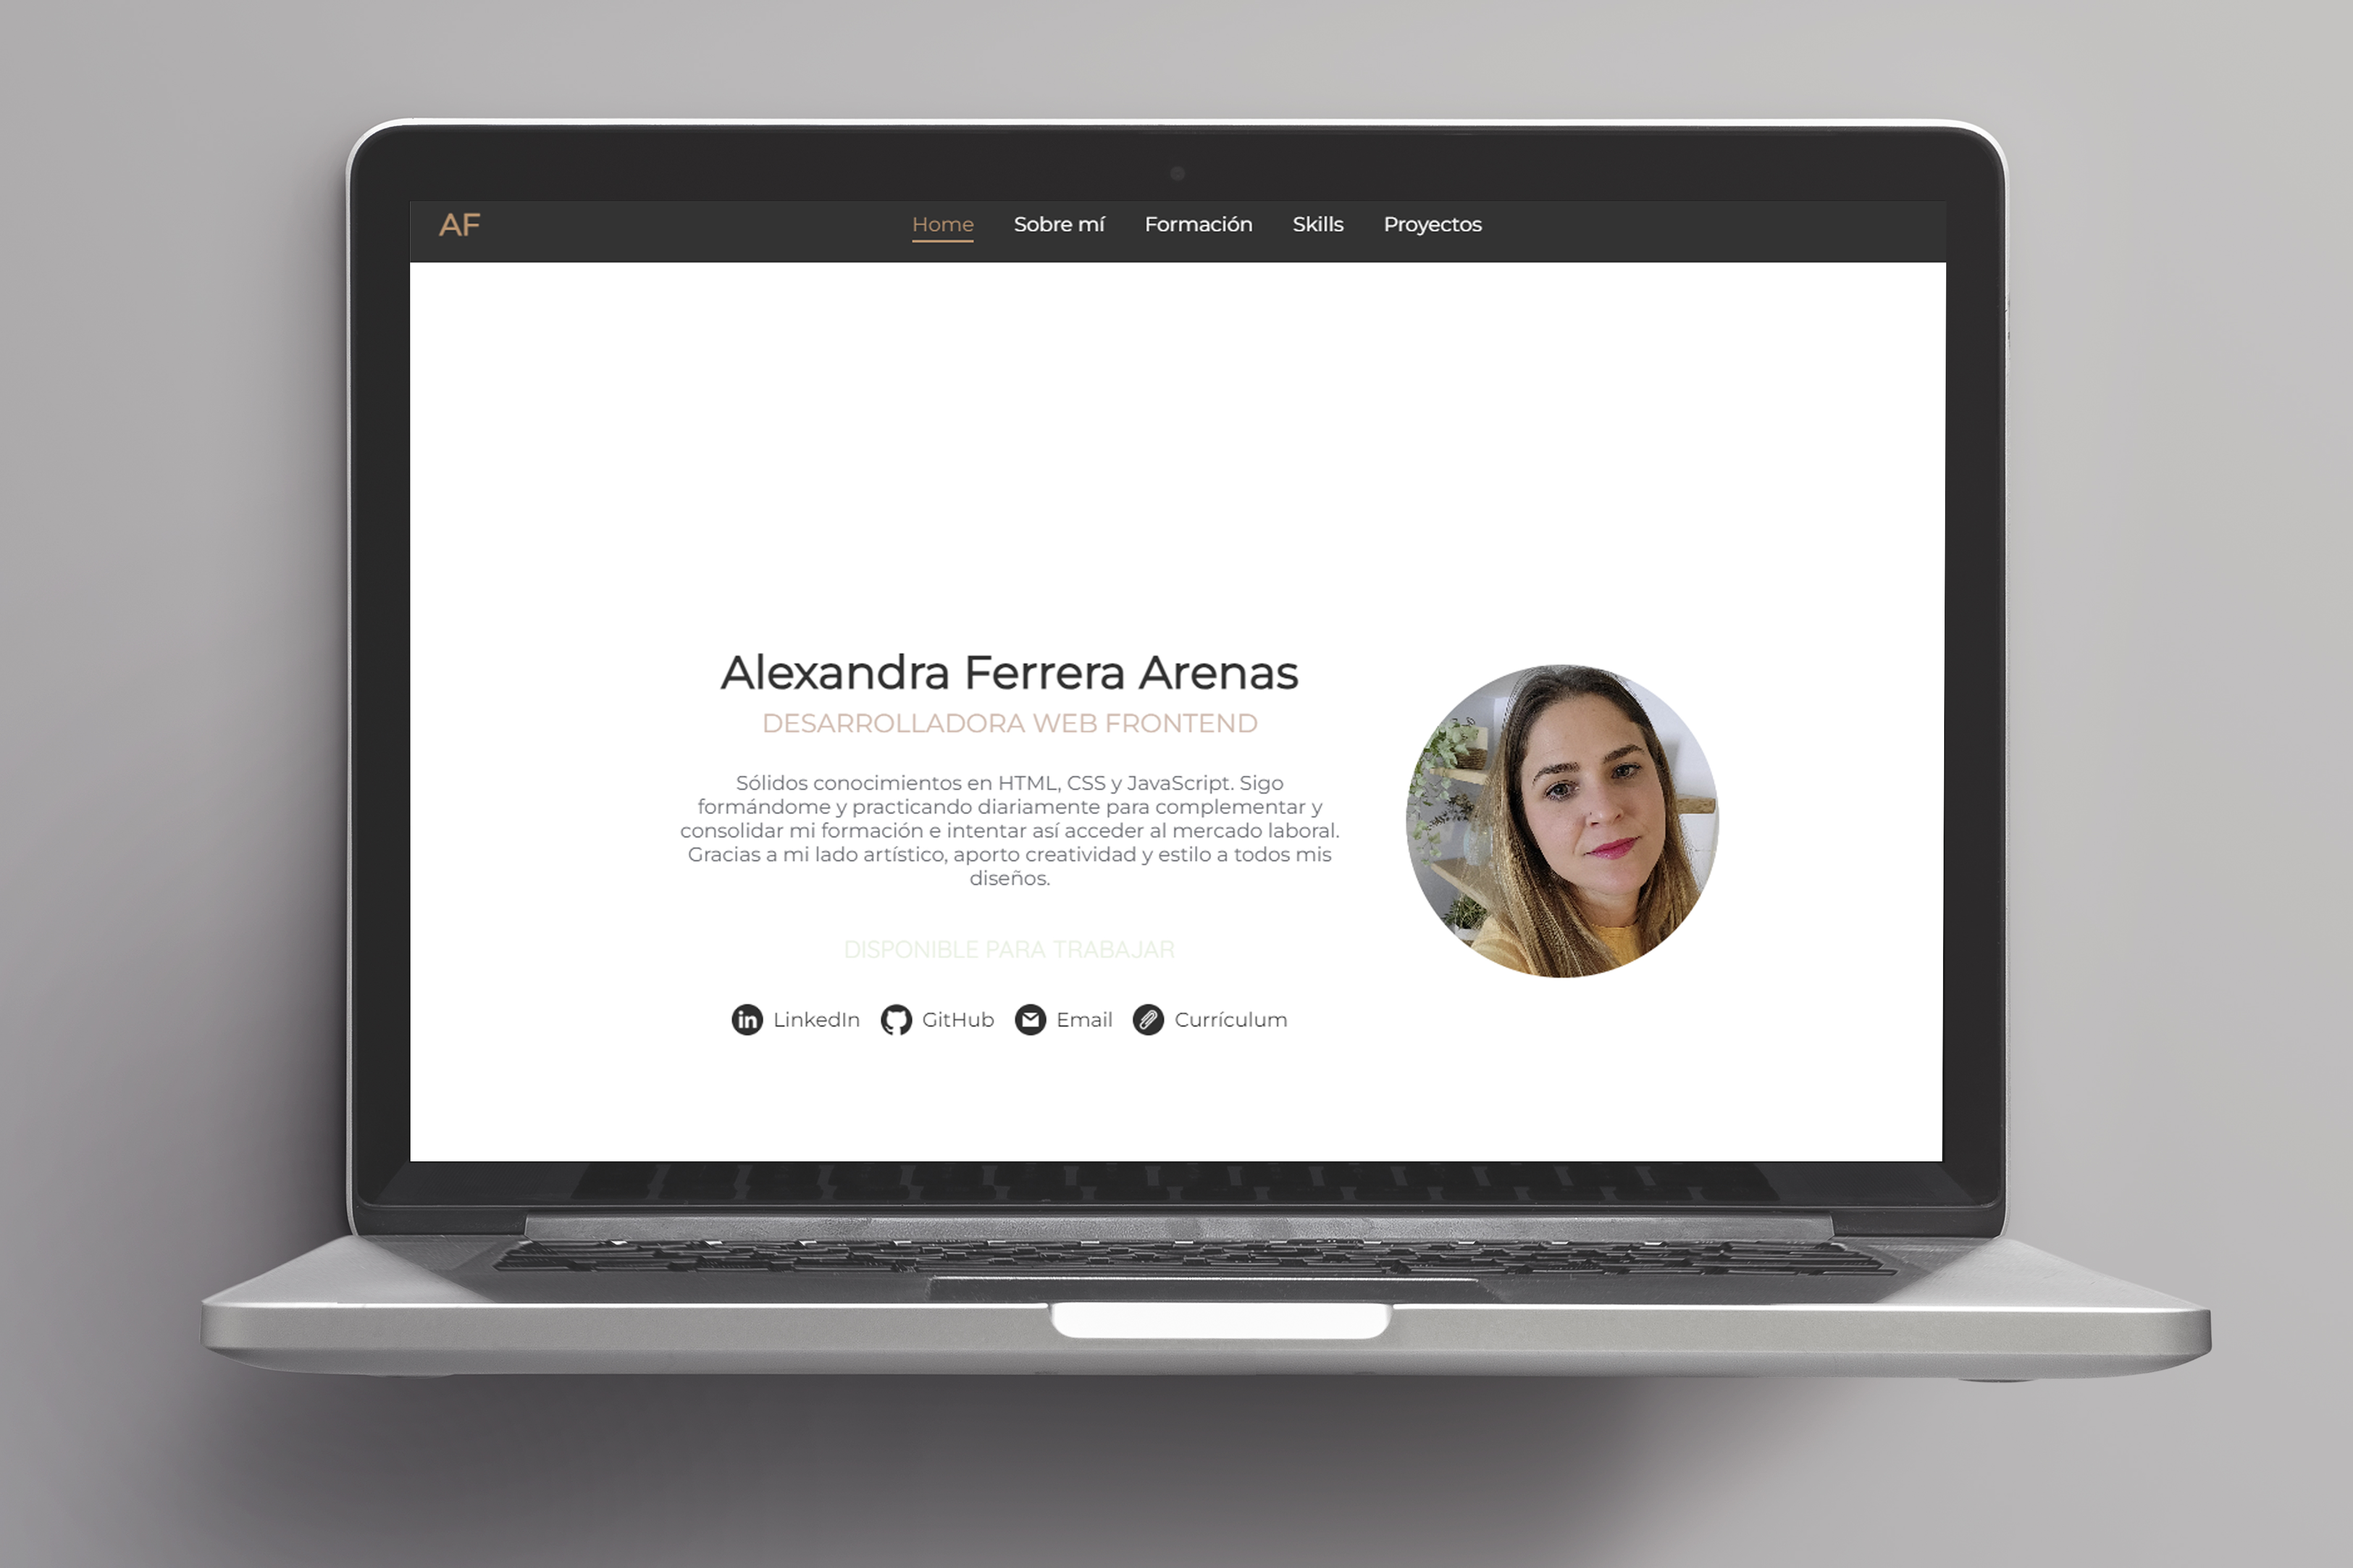
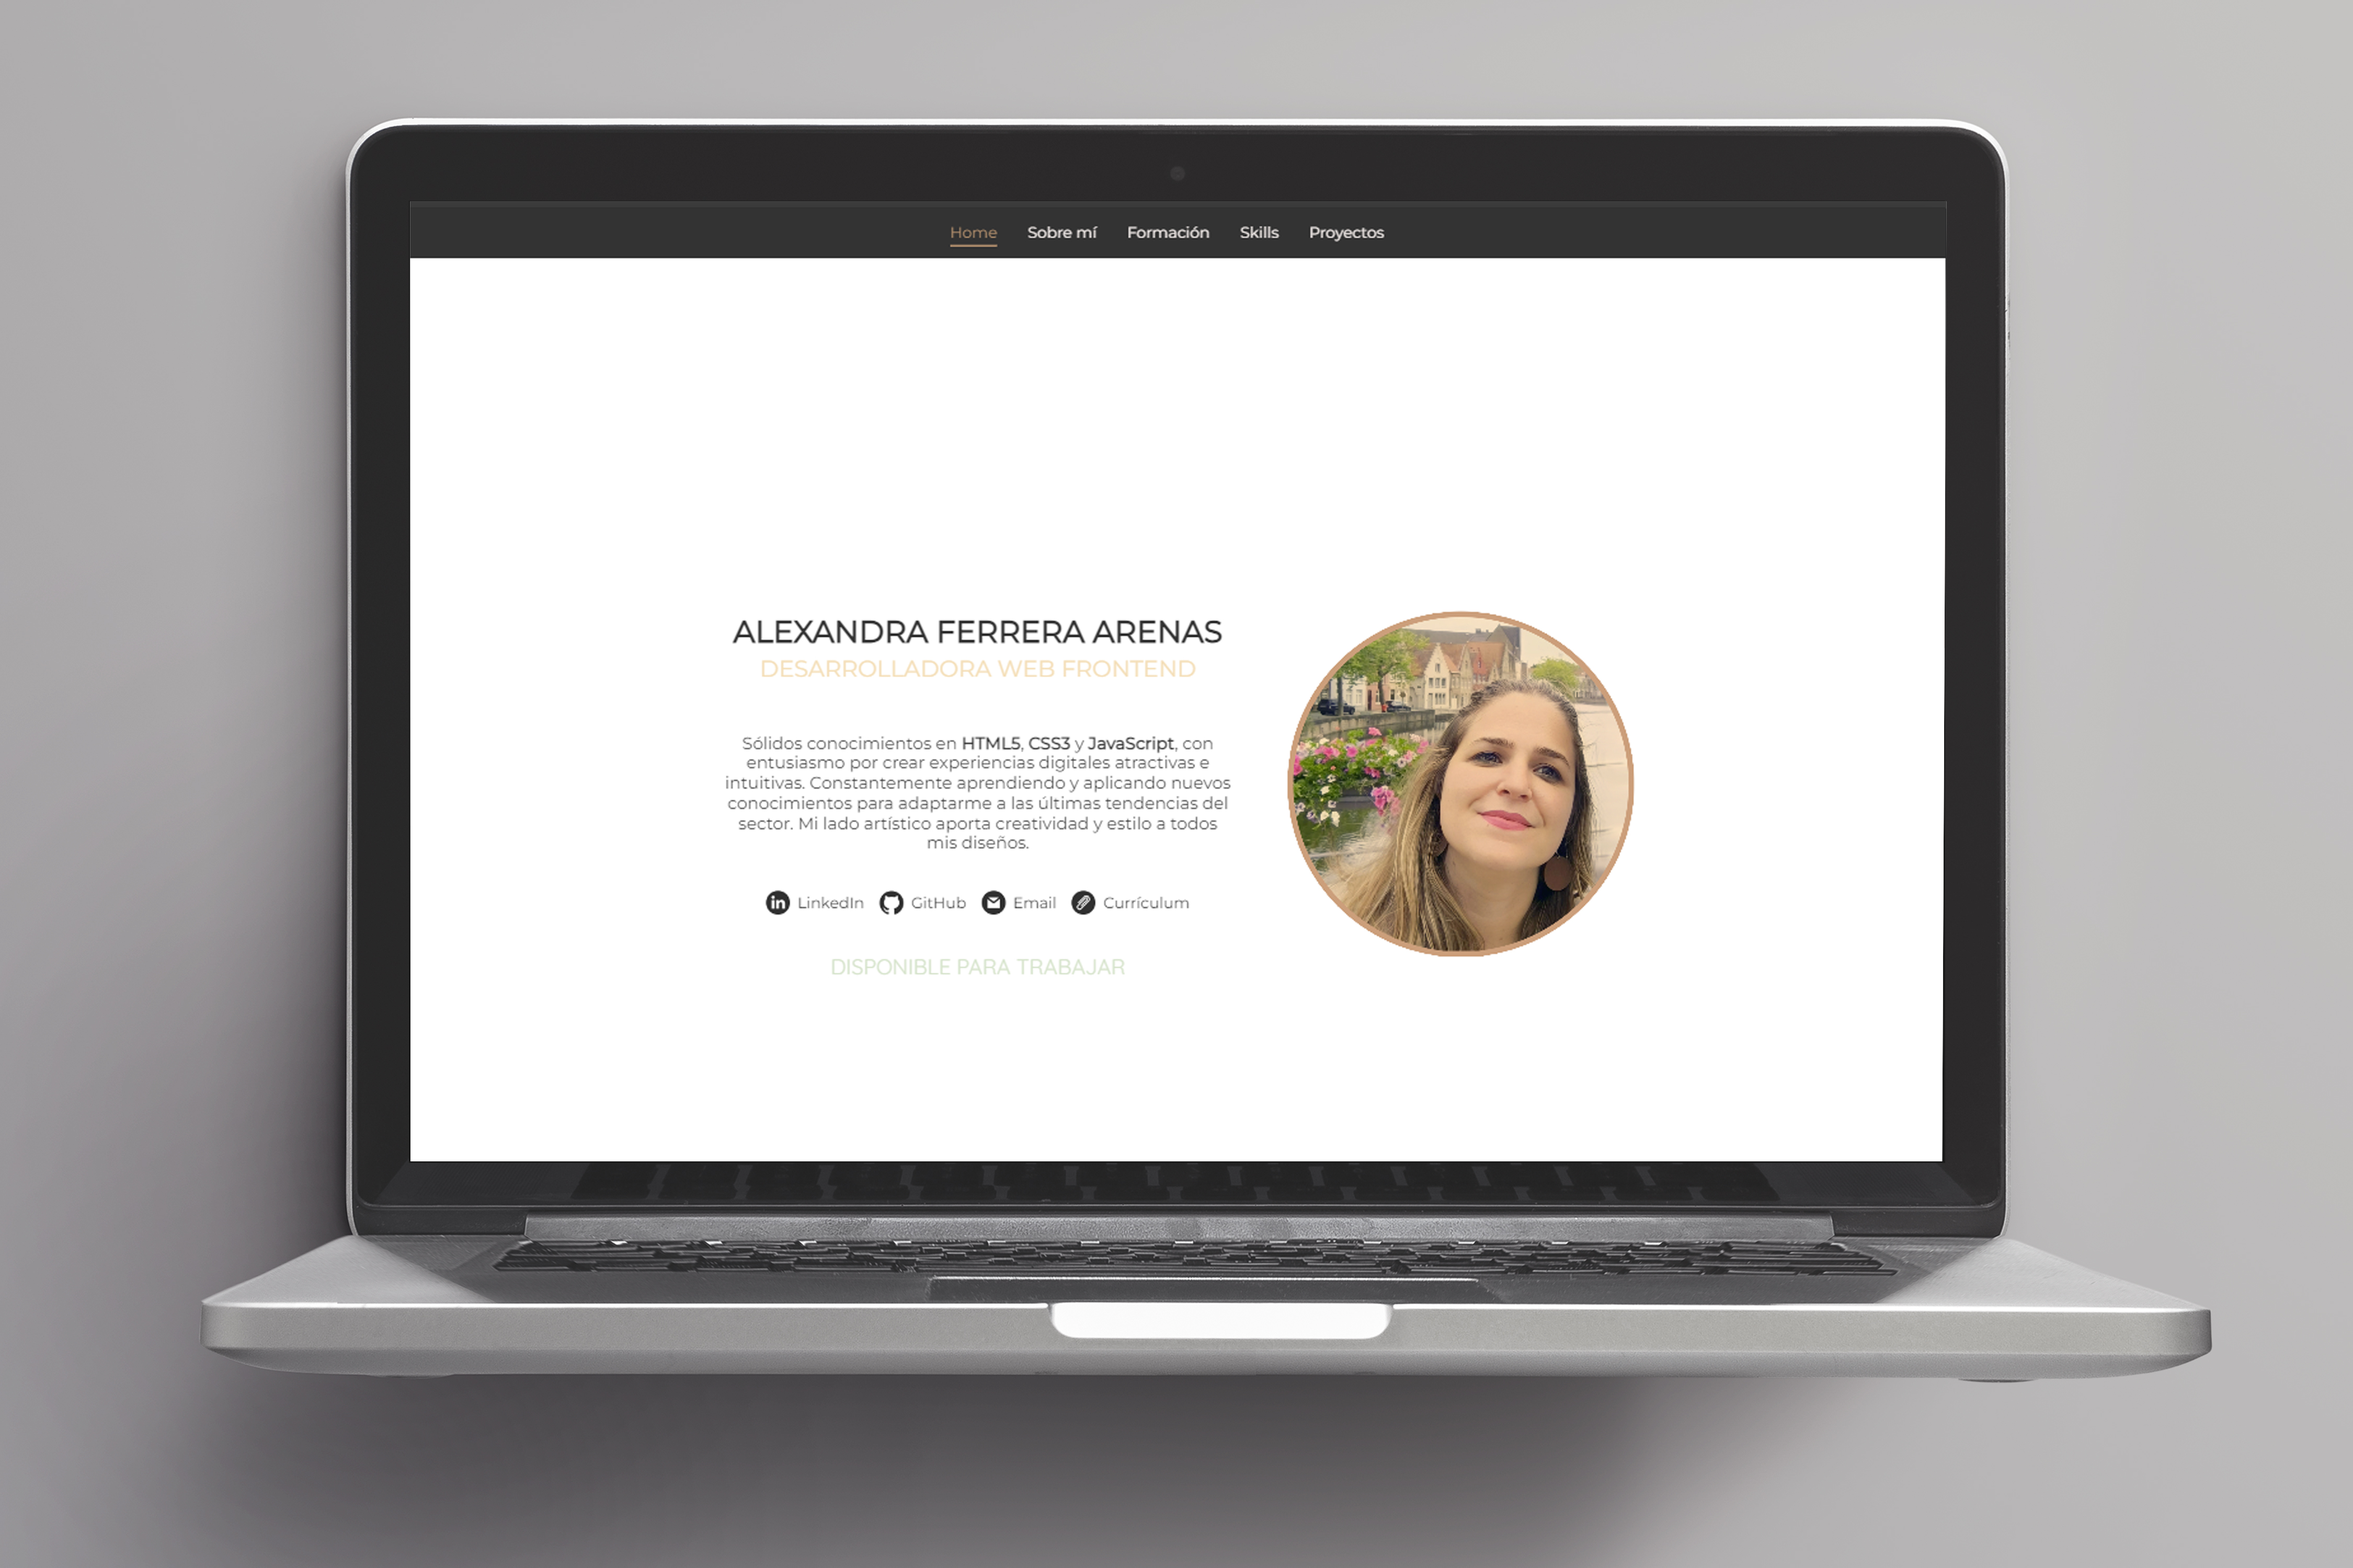
ultimos cambios hoy

Changed region(s): [[0.28, 0.372, 0.7467, 0.682], [0.1867, 0.124, 0.8089, 0.186], [0.3111, 0.62, 0.3422, 0.682]]

diff --git a/index.html b/index.html
@@ -119,8 +119,6 @@
                 💼 Estoy buscando una oportunidad de prácticas o un puesto de desarrolladora web junior donde pueda
                 aplicar y seguir desarrollando mis habilidades. Estoy segura de que puedo aportar valor a su equipo con
                 mis habilidades, entusiasmo y ganas de aprender.
-                <br><br>
-                No dude en contactarme si tiene alguna pregunta o desea conocer más sobre mi experiencia.
             </p>
     </section>
     <section id="skills">
@@ -211,7 +209,8 @@
                         <details open>
                             <summary>Mostrar / ocultar detalles</summary>
                             <p class="text-sep">He aprendido a desarrollar y publicar páginas web utilizando las últimas
-                                tecnologías con HTML5, CSS3 y JavaScript. Con una nota media de 9, he adquirido conocimientos
+                                tecnologías con HTML5, CSS3 y JavaScript. Con una nota media de 9, he adquirido
+                                conocimientos
                                 sólidos, también sobre accesibilidad y usabilidad. Todo ello de manera presencial, con
                                 un
                                 profesorado de primera, múltiples trabajos diarios, ejercicios y exámenes.
@@ -259,9 +258,9 @@
                         <p><strong>Cursando actualmente (2024) </strong></p>
                         <details>
                             <summary>Mostrar / ocultar detalles</summary>
-                            <p class="text-sep"> Curso online completo sobre el framework de JavaScript, Angular, con el
-                                que aprendo toda la base para su uso en el Desarrollo Web Frontend. Los conceptos a
-                                aprender más destacados son: </p>
+                            <p class="text-sep"> Curso en línea completo sobre Angular, un framework de JavaScript, en
+                                el que estoy aprendiendo los fundamentos esenciales para su aplicación en el desarrollo
+                                web frontend. Los conceptos más destacados que estoy aprendiendo son: </p>
                             <p>· Componentes.</p>
                             <p>· Interpolación.</p>
                             <p>· Binding.</p>
@@ -319,7 +318,8 @@
         <div class="projects-container">
             <h2>Mis proyectos seleccionados</h2>
             <!-- Descripción de proyectos -->
-            <p class="text-sep">Una selección de mis proyectos, que incluye sitios web publicados, proyectos personales y ejercicios de mis cursos. Cada uno ha sido desarrollado desde cero por mí, aplicando los conocimientos
+            <p class="text-sep">Una selección de mis proyectos, que incluye sitios web publicados, proyectos personales
+                y ejercicios de mis cursos. Cada uno ha sido desarrollado desde cero por mí, aplicando los conocimientos
                 adquiridos y demostrando mi crecimiento constante. Esta colección se actualizará regularmente con nuevos
                 proyectos.
             </p>
@@ -329,16 +329,16 @@
                 <div class="project">
                     <div class="project-image slider" id="slider-playas">
                         <div class="slide active">
-                            <img src="img/image/playas-responsive.jpg" alt="Imagen del proyecto 1">
+                            <img src="img/image/playas-responsive.jpg" alt="Responsive tablet y móvil">
                         </div>
                         <div class="slide">
-                            <img src="img/image/playasweb.jpg" alt="Imagen del proyecto 2">
+                            <img src="img/image/playasweb.jpg" alt="Responsive ordenador">
                         </div>
                         <div class="slide">
-                            <img src="img/image/playasweb2.jpg" alt="Imagen del proyecto 3">
+                            <img src="img/image/playasweb2.jpg" alt="Web navegando en pc">
                         </div>
                         <div class="slide">
-                            <img src="img/image/playaswebLogo.jpg" alt="Imagen del proyecto 4">
+                            <img src="img/image/playaswebLogo.jpg" alt="Logo web playas de cádiz">
                         </div>
                         <div class="slider-controls">
                             <button class="prev">❮</button>
@@ -377,13 +377,13 @@
                 <div class="project">
                     <div class="project-image slider" id="slider-dearte">
                         <div class="slide active">
-                            <img src="img/image/dearte-responsive.jpg" alt="Imagen del proyecto 1">
+                            <img src="img/image/dearte-responsive.jpg" alt="Responsive tablet y móvil">
                         </div>
                         <div class="slide">
-                            <img src="img/image/dearteweb.jpg" alt="Imagen del proyecto 2">
+                            <img src="img/image/dearteweb.jpg" alt="Responsive ordenador">
                         </div>
                         <div class="slide">
-                            <img src="img/image/dearteweb1.jpg" alt="Imagen del proyecto 3">
+                            <img src="img/image/dearteweb1.jpg" alt="Web navegando en pc">
                         </div>
                         <div class="slider-controls">
                             <button class="prev">❮</button>
@@ -414,13 +414,13 @@
                 <div class="project">
                     <div class="project-image slider" id="slider-tareas">
                         <div class="slide active">
-                            <img src="img/image/portfolio1.jpg" alt="Imagen del proyecto 1">
+                            <img src="img/image/portfolio1.jpg" alt="Responsive tablet y móvil">
                         </div>
                         <div class="slide">
-                            <img src="img/image/portfolio2.jpg" alt="Imagen del proyecto 2">
+                            <img src="img/image/portfolio2.jpg" alt="Responsive ordenador">
                         </div>
                         <div class="slide">
-                            <img src="img/image/portfolio3.jpg" alt="Imagen del proyecto 2">
+                            <img src="img/image/portfolio3.jpg" alt="Web navegando en pc">
                         </div>
 
                         <div class="slider-controls">
@@ -451,25 +451,25 @@
                 <div class="project">
                     <div class="project-image slider" id="slider-tareas">
                         <div class="slide active">
-                            <img src="img/image/practica1.jpg" alt="Imagen del proyecto 1">
+                            <img src="img/image/practica1.jpg" alt="Ejercicio replica web">
                         </div>
                         <div class="slide">
-                            <img src="img/image/practica2.jpg" alt="Imagen del proyecto 2">
+                            <img src="img/image/practica2.jpg" alt="Ejercicio replica web 2">
                         </div>
                         <div class="slide">
-                            <img src="img/image/practica3.jpg" alt="Imagen del proyecto 2">
+                            <img src="img/image/practica3.jpg" alt="Ejercicio replica web 3">
                         </div>
                         <div class="slide">
-                            <img src="img/image/practica4.jpg" alt="Imagen del proyecto 2">
+                            <img src="img/image/practica4.jpg" alt="Ejercicio Formulario">
                         </div>
                         <div class="slide">
-                            <img src="img/image/practica5.jpg" alt="Imagen del proyecto 2">
+                            <img src="img/image/practica5.jpg" alt="Ejercicio replica web 4">
                         </div>
                         <div class="slide">
-                            <img src="img/image/practica5.2.jpg" alt="Imagen del proyecto 2">
+                            <img src="img/image/practica5.2.jpg" alt="Ejercicio replica web 5">
                         </div>
                         <div class="slide">
-                            <img src="img/image/practica6.jpg" alt="Imagen del proyecto 2">
+                            <img src="img/image/practica6.jpg" alt="Ejercicio replica web 6">
                         </div>
 
                         <div class="slider-controls">

diff --git a/css/estilo.css b/css/estilo.css
@@ -588,65 +588,6 @@ footer {
   font-weight: bolder;
 }
 
-/* Estilos responsivos */
-@media (max-width: 600px) {
-  .social-links {
-    flex-wrap: wrap;
-  }
-
-  nav ul {
-    flex-wrap: wrap;
-    gap: 0.6rem;
-    font-size: 0.9rem;
-  }
-
-  .logo {
-    font-size: 0.5rem;
-  }
-
-  .intro-text h1 {
-    font-size: 1.3rem;
-    margin-bottom: 1rem;
-  }
-
-  .intro-text p {
-    font-size: 1.2rem;
-  }
-
-  #descripcion {
-    line-height: 1.8rem;
-    margin-top: -3rem;
-  }
-}
-
-@media (max-width: 768px) {
-  .intro {
-    flex-direction: column-reverse;
-  }
-
-  .intro-image img {
-    width: 300px;
-    height: 300px;
-  }
-
-  .project {
-    flex-direction: column;
-    align-items: center;
-    gap: 0;
-  }
-
-  .project-image {
-    width: 100%;
-    height: auto;
-  }
-}
-
-@media (max-width: 1024px) {
-  .parallax {
-    height: 150px;
-  }
-}
-
 /* Slider */
 .slider {
   position: relative;
@@ -734,4 +675,63 @@ footer {
 
 .modal-next {
   right: 10px;
+}
+
+/* Estilos responsivos */
+@media (max-width: 600px) {
+  .social-links {
+    flex-wrap: wrap;
+  }
+
+  nav ul {
+    flex-wrap: wrap;
+    gap: 0.8rem;
+    font-size: 1rem;
+  }
+
+  .logo {
+    font-size: 0.5rem;
+  }
+
+  .intro-text h1 {
+    font-size: 1.5rem;
+    margin-bottom: 1rem;
+  }
+
+  .intro-text p {
+    font-size: 1.3rem;
+  }
+
+  #descripcion {
+    line-height: 1.8rem;
+    margin-top: -3rem;
+  }
+}
+
+@media (max-width: 768px) {
+  .intro {
+    flex-direction: column-reverse;
+  }
+
+  .intro-image img {
+    width: 300px;
+    height: 300px;
+  }
+
+  .project {
+    flex-direction: column;
+    align-items: center;
+    gap: 0;
+  }
+
+  .project-image {
+    width: 100%;
+    height: auto;
+  }
+}
+
+@media (max-width: 1024px) {
+  .parallax {
+    height: 150px;
+  }
 }
